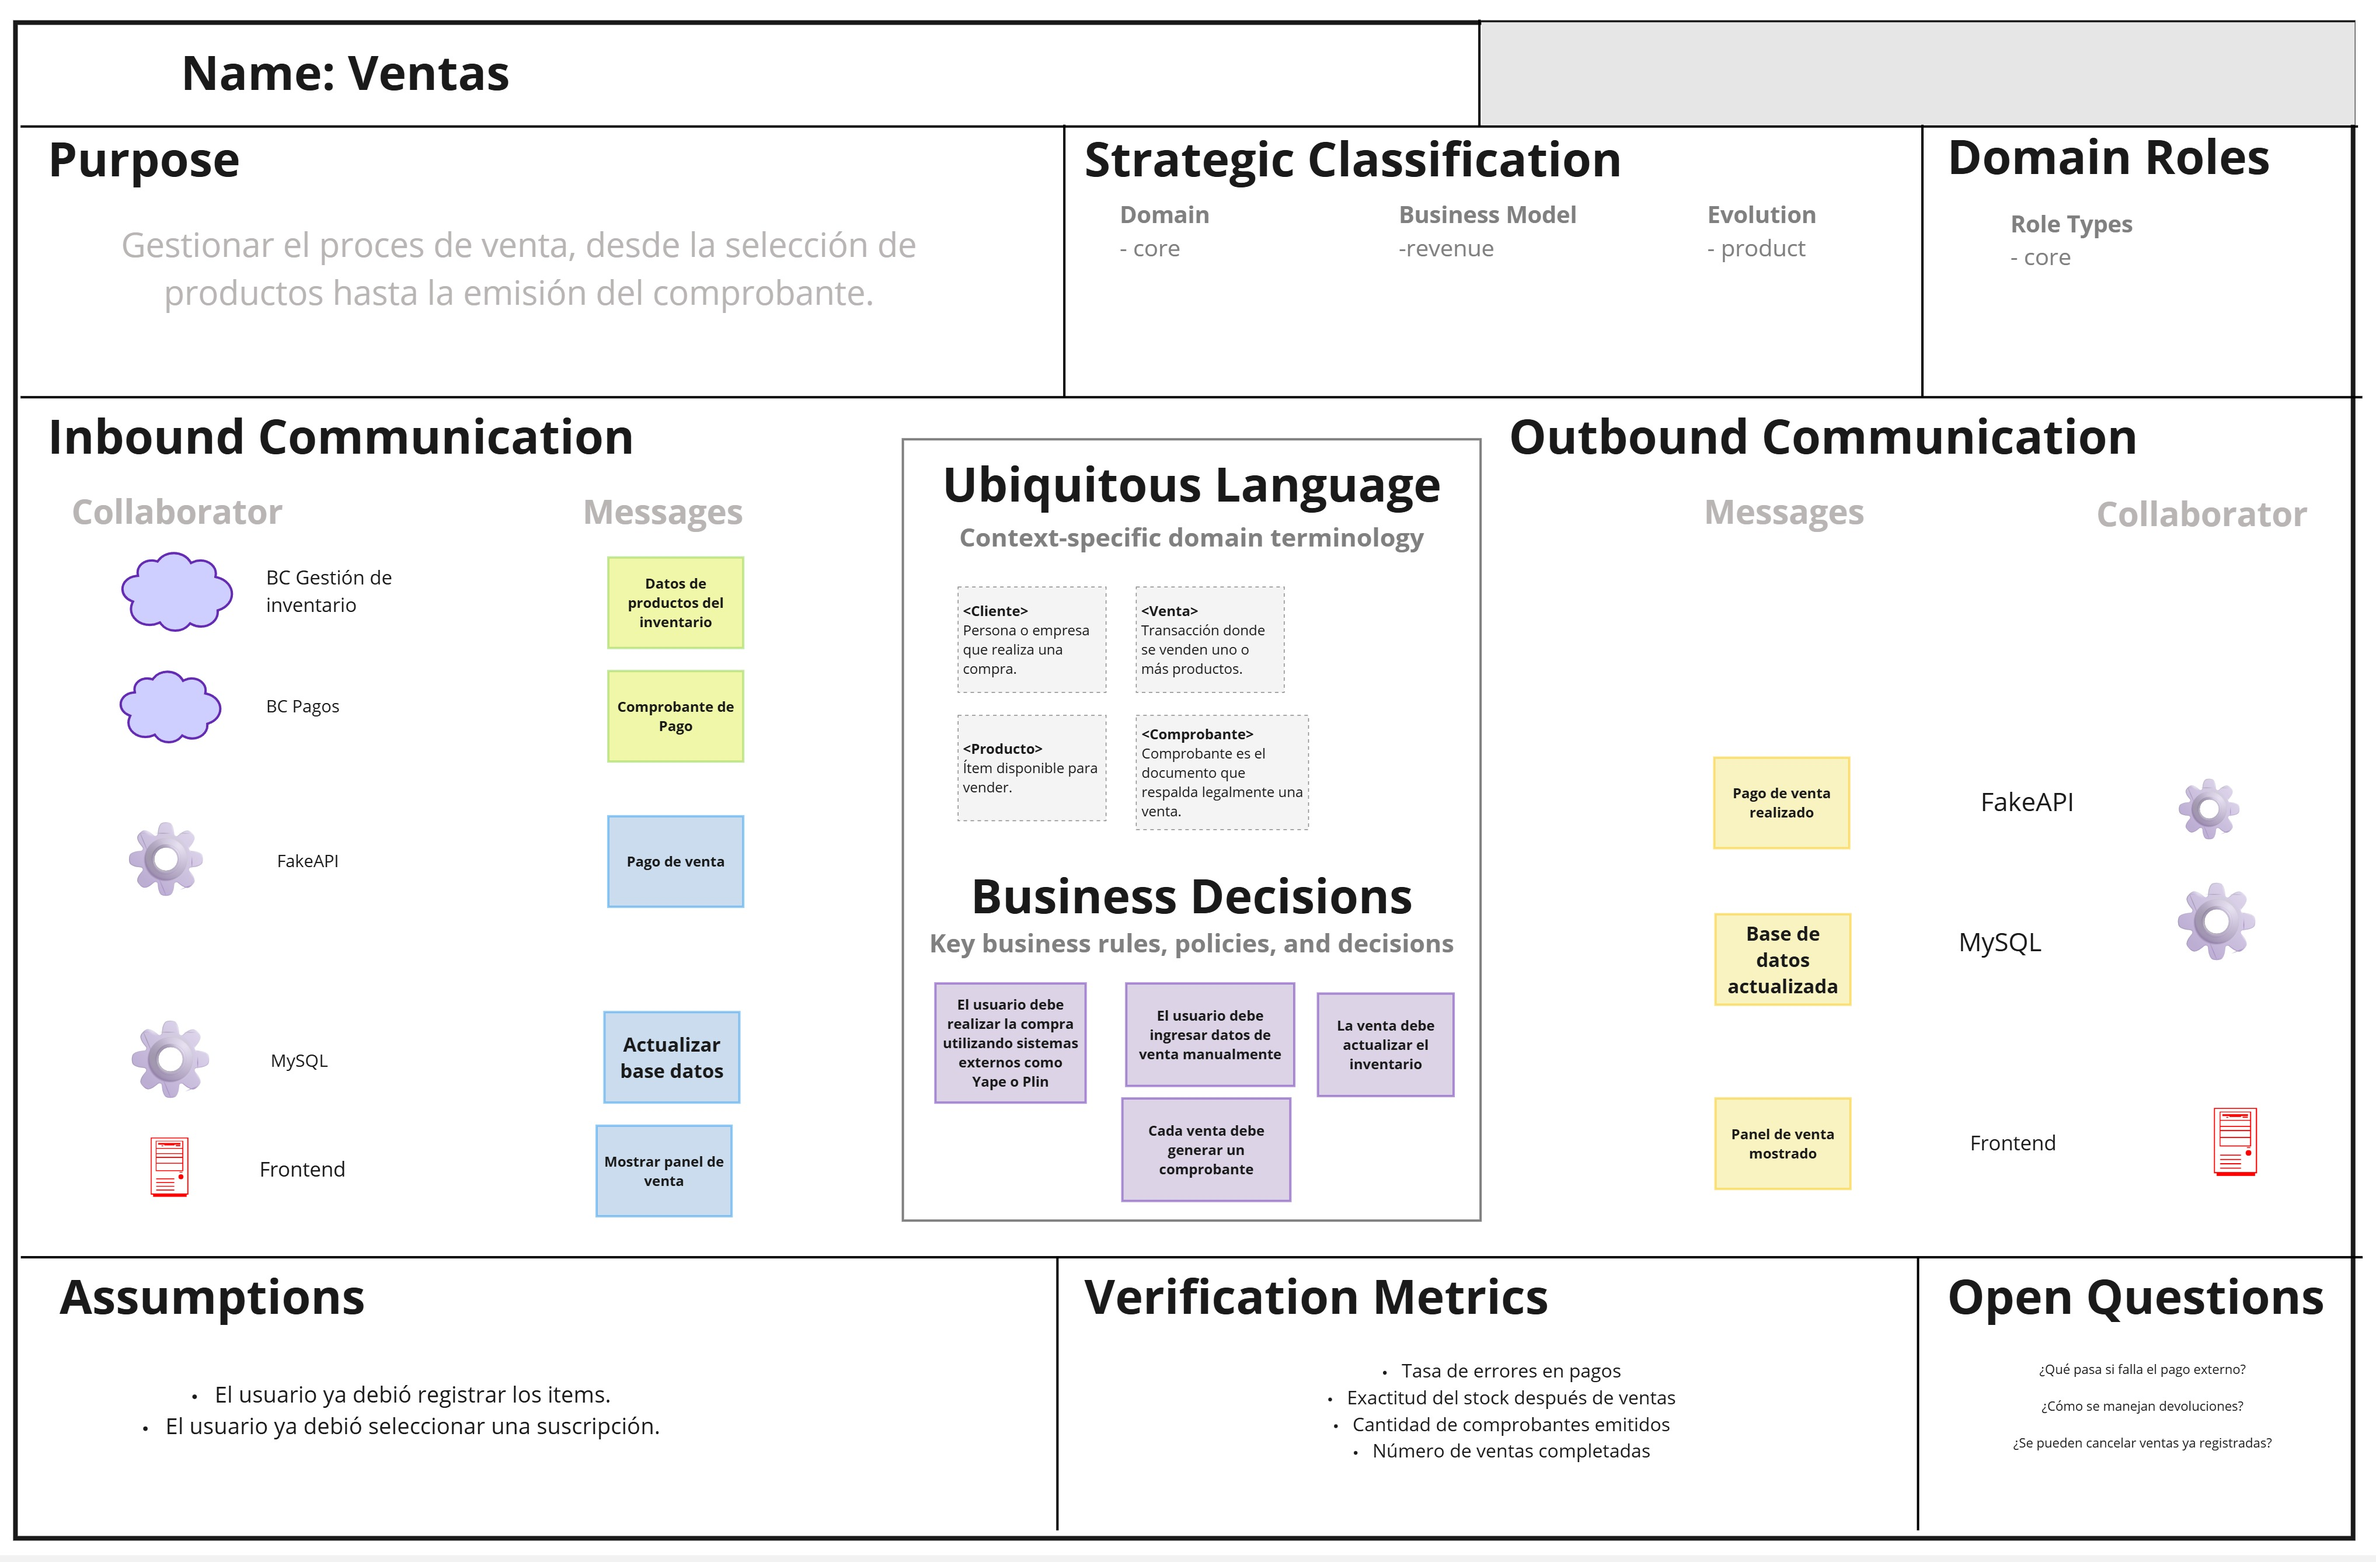
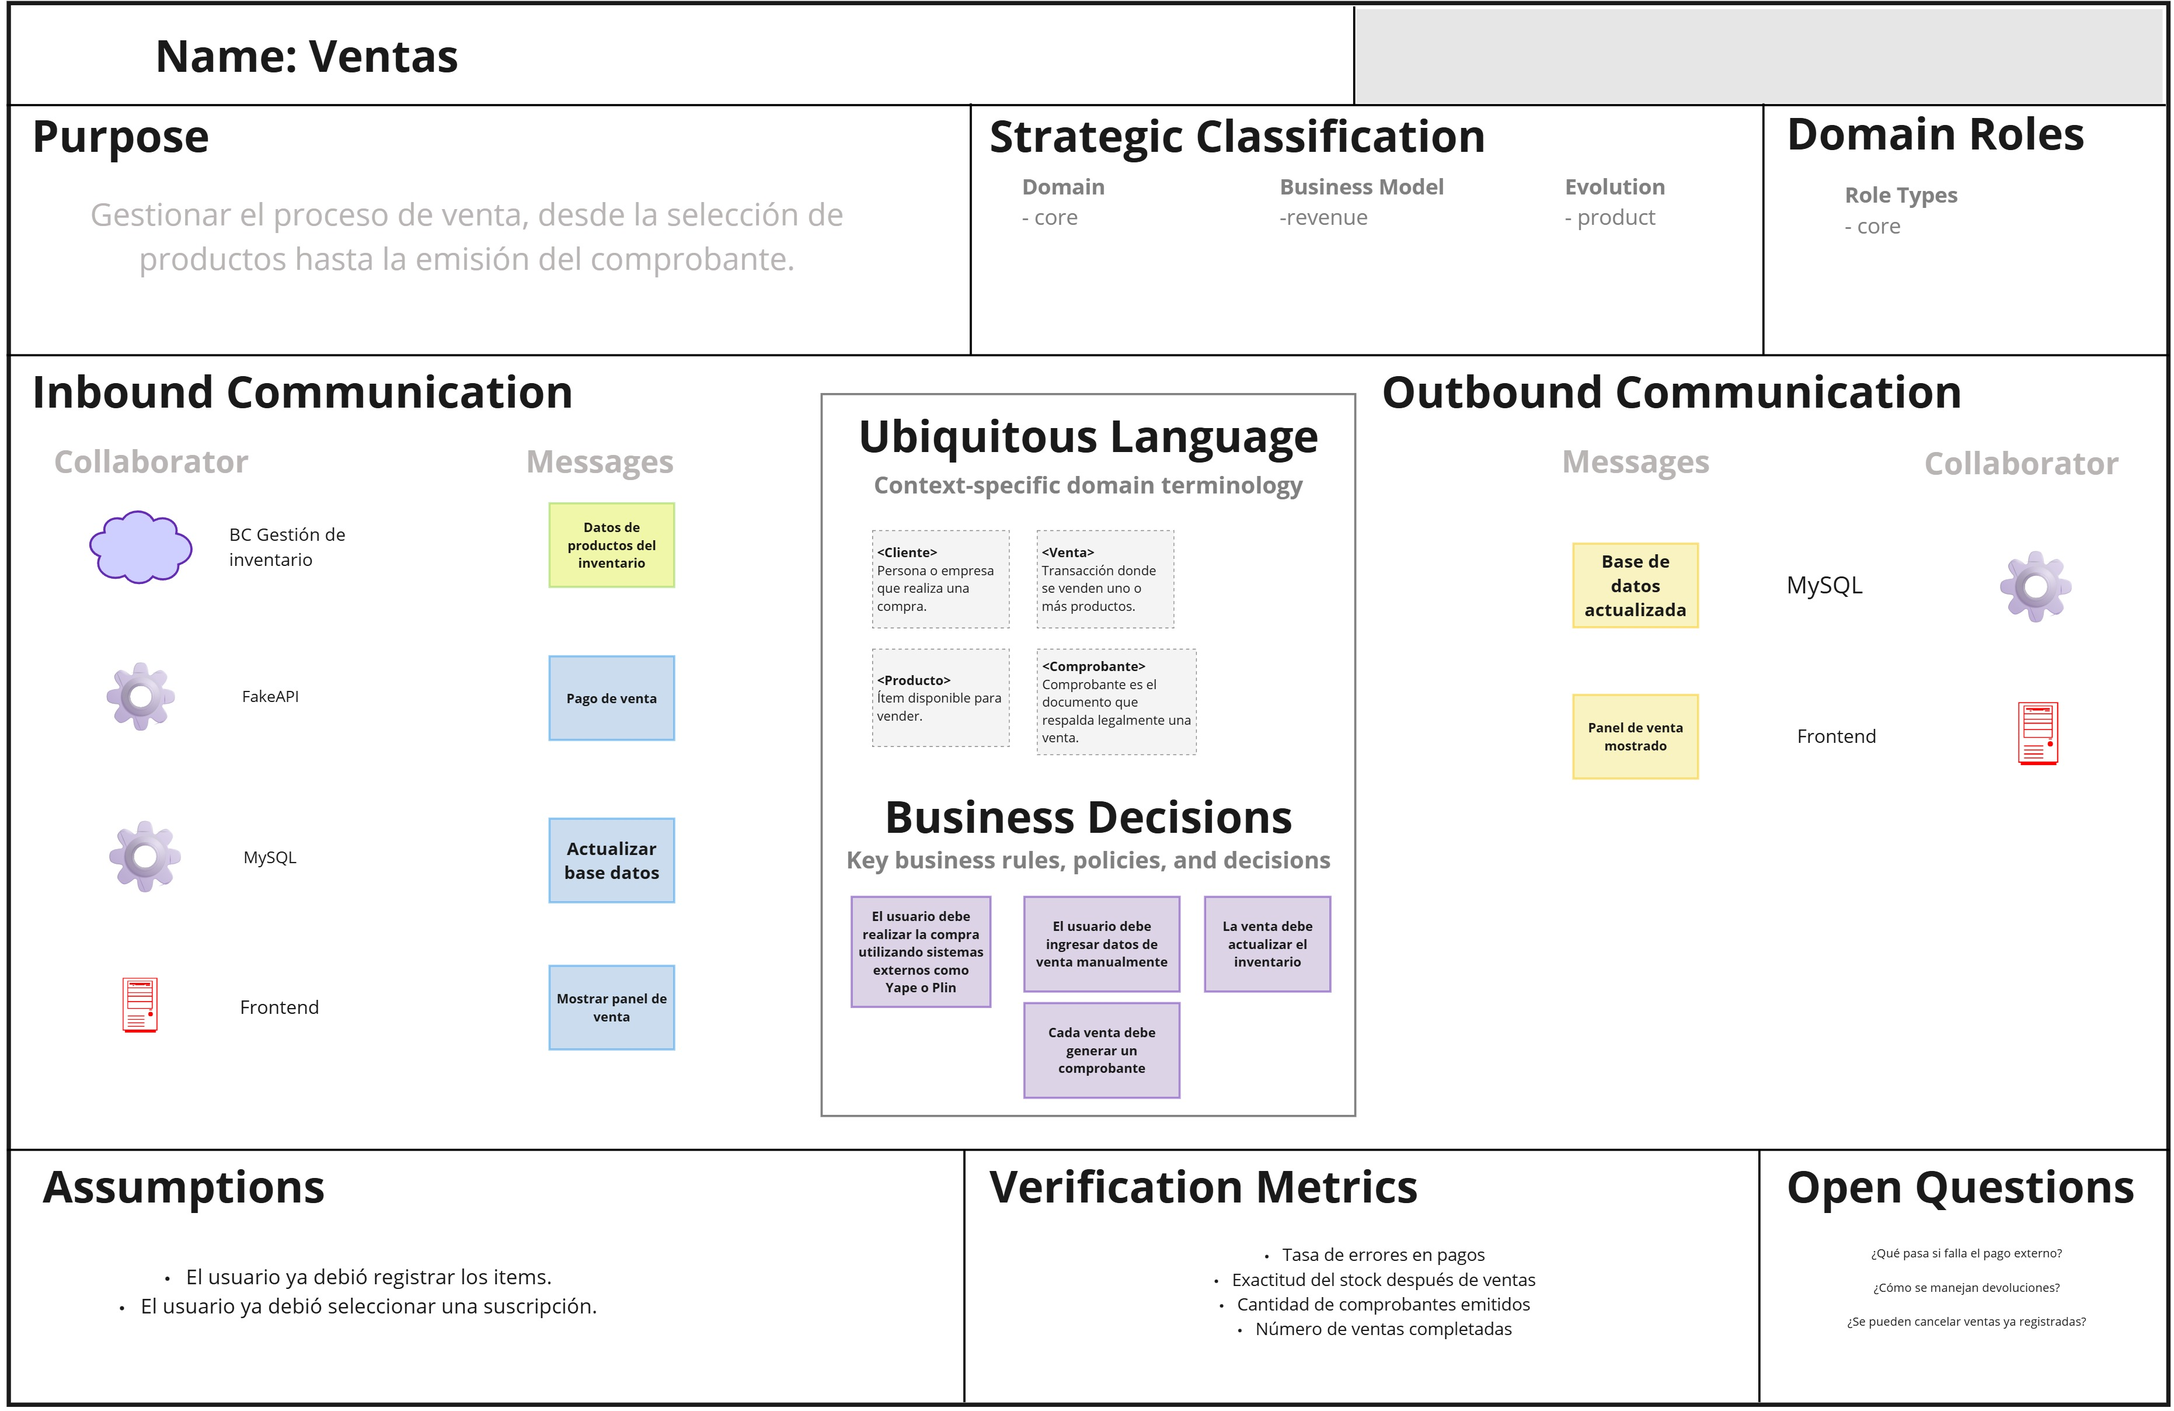
docs:Capitulo4ActualizacionCanvas

diff --git a/docs/capitulo-4.md b/docs/capitulo-4.md
@@ -1309,7 +1309,7 @@ El prototipo cubre los siguientes flujos principales de interacción, representa
  
 El video de demostración del prototipo, donde se explican en detalle los flujos principales y las decisiones de diseño más relevantes, está disponible en Microsoft Stream en el siguiente enlace:
  
-**Enlace al video del prototipo:** https://youtu.be/T2icL1vz_9Q
+**Enlace al video del prototipo:** **https://youtu.be/T2icL1vz_9Q**
 
 
 ## 4.6. Domain-Driven Software Architecture
